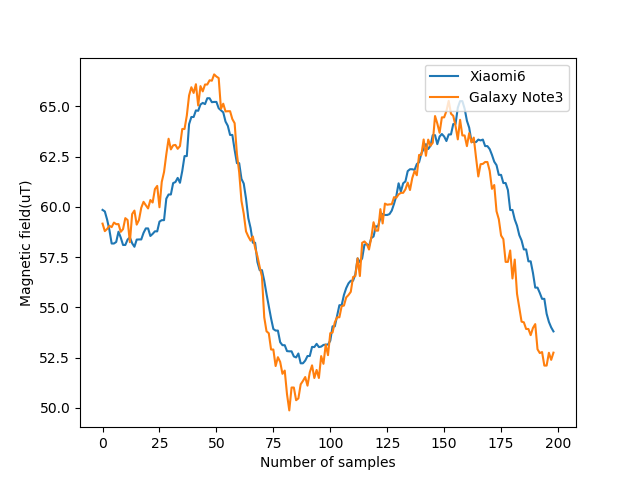
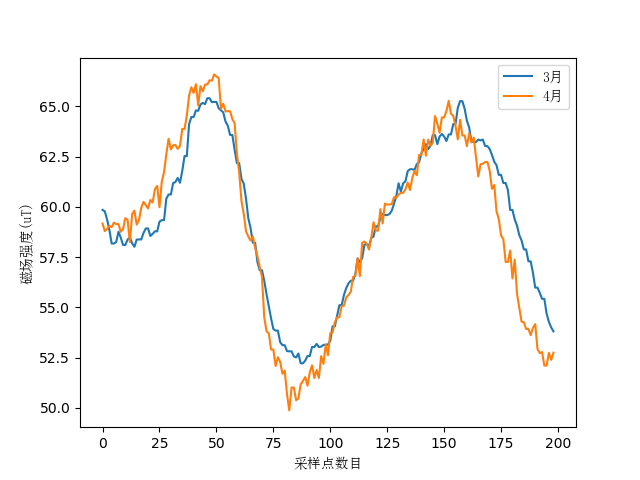
cdf

Changed region(s): [[0.6562, 0.125, 0.875, 0.25], [0.4062, 0.9375, 0.625, 1.0], [0.0312, 0.375, 0.0625, 0.6562]]

diff --git a/draw_data/cdf.py b/draw_data/cdf.py
@@ -1,0 +1,32 @@
+# -*- coding: utf-8 -*-
+import matplotlib.pyplot as plt
+from pandas import read_csv
+import numpy as np
+import matplotlib
+from scipy import stats
+import csv
+
+zhfont1 = matplotlib.font_manager.FontProperties(fname='C:\Windows\Fonts\simsun.ttc')
+
+# Draw 100000 samples from Normal distribution with stds of interest: samples_std1, samples_std3, samples_std10
+samples_std1 = np.random.normal(50, 1, size=100)
+samples_std2 = np.random.normal(30, 3, size=100)
+samples_std3 = np.random.normal(30, 100, size=100)
+samples_std4 = np.random.normal(30, 100, size=100)
+print(samples_std1)
+#plt.show()
+# Generate CDFs
+0
+plt.show()
+x_std1= stats.cumfreq(samples_std1)
+x_std2= stats.cumfreq(samples_std2)
+x_std3= stats.cumfreq(samples_std3)
+x_std4= stats.cumfreq(samples_std4)
+plt.plot(x_std1[0],label='大厅',marker='.')
+plt.plot(x_std2[0],label='走廊',marker='+')
+plt.plot(x_std3[0],label='实验室',marker='*')
+plt.plot(x_std4[0],label='教室',marker='o')
+plt.xlim(0, 10)
+plt.legend(loc = 'lower right',prop=zhfont1)
+plt.show()
+

diff --git a/draw_data/steplength.py b/draw_data/steplength.py
@@ -1,0 +1,29 @@
+# -*- coding: utf-8 -*-
+import matplotlib.pyplot as plt
+from pandas import read_csv
+import matplotlib
+import csv
+
+zhfont1 = matplotlib.font_manager.FontProperties(fname='C:\Windows\Fonts\simsun.ttc')
+
+
+data = read_csv("C:/Users/binbin/Desktop/mydata/acce.csv")
+#print(data)
+dataset = data.values
+X, Y= [], []
+i = 0
+for i in range(10,51):
+    X.append(dataset[i][0])
+    if dataset[i][1]>9.8:
+        dataset[i][1]=dataset[i][1]-2
+    else:
+        dataset[i][1]=dataset[i][1]+2
+    Y.append(dataset[i][1])
+    i = i+1
+plt.plot(X,label="采样点数目",linestyle='-.',color='r')
+plt.plot(Y,label="采样点数目",linestyle='--',color='g')
+plt.xlabel("采样点数目", fontproperties=zhfont1)
+plt.ylabel("加速度计读数(m/s²)", fontproperties=zhfont1)
+plt.legend(['步长80cm', '步长60cm'],loc = 'upper right',prop=zhfont1)
+plt.savefig("步长比较.png")
+plt.show()

diff --git a/draw_data/mag_compare.py b/draw_data/mag_compare.py
@@ -1,12 +1,15 @@
+# -*- coding: utf-8 -*-
 from pandas import read_csv
 import matplotlib.pyplot as plt
+import matplotlib
 data = read_csv("mag_compare.csv")
+zhfont1 = matplotlib.font_manager.FontProperties(fname='C:\Windows\Fonts\simsun.ttc')
 #print(data)
 dataset = data.values
 print(dataset)
 plt.plot(dataset)
-plt.xlabel("Number of samples")
-plt.ylabel("Magnetic field(uT)")
-plt.legend(['Xiaomi6', 'Galaxy Note3'],loc = 'upper right')
+plt.xlabel("采样点数目", fontproperties=zhfont1)
+plt.ylabel("磁场强度(uT)", fontproperties=zhfont1)
+plt.legend(['3月', '4月'],loc = 'upper right',prop=zhfont1)
 plt.savefig("mag_compare.png")
 plt.show()

diff --git a/draw_data/acce_compare.py b/draw_data/acce_compare.py
@@ -21,3 +21,4 @@ plt.legend(['MI 6', 'Galaxy S8'],loc = 'upper right')
 plt.legend(fontproperties=zhfont1)
 plt.savefig("加速度比较.png")
 plt.show()
+
